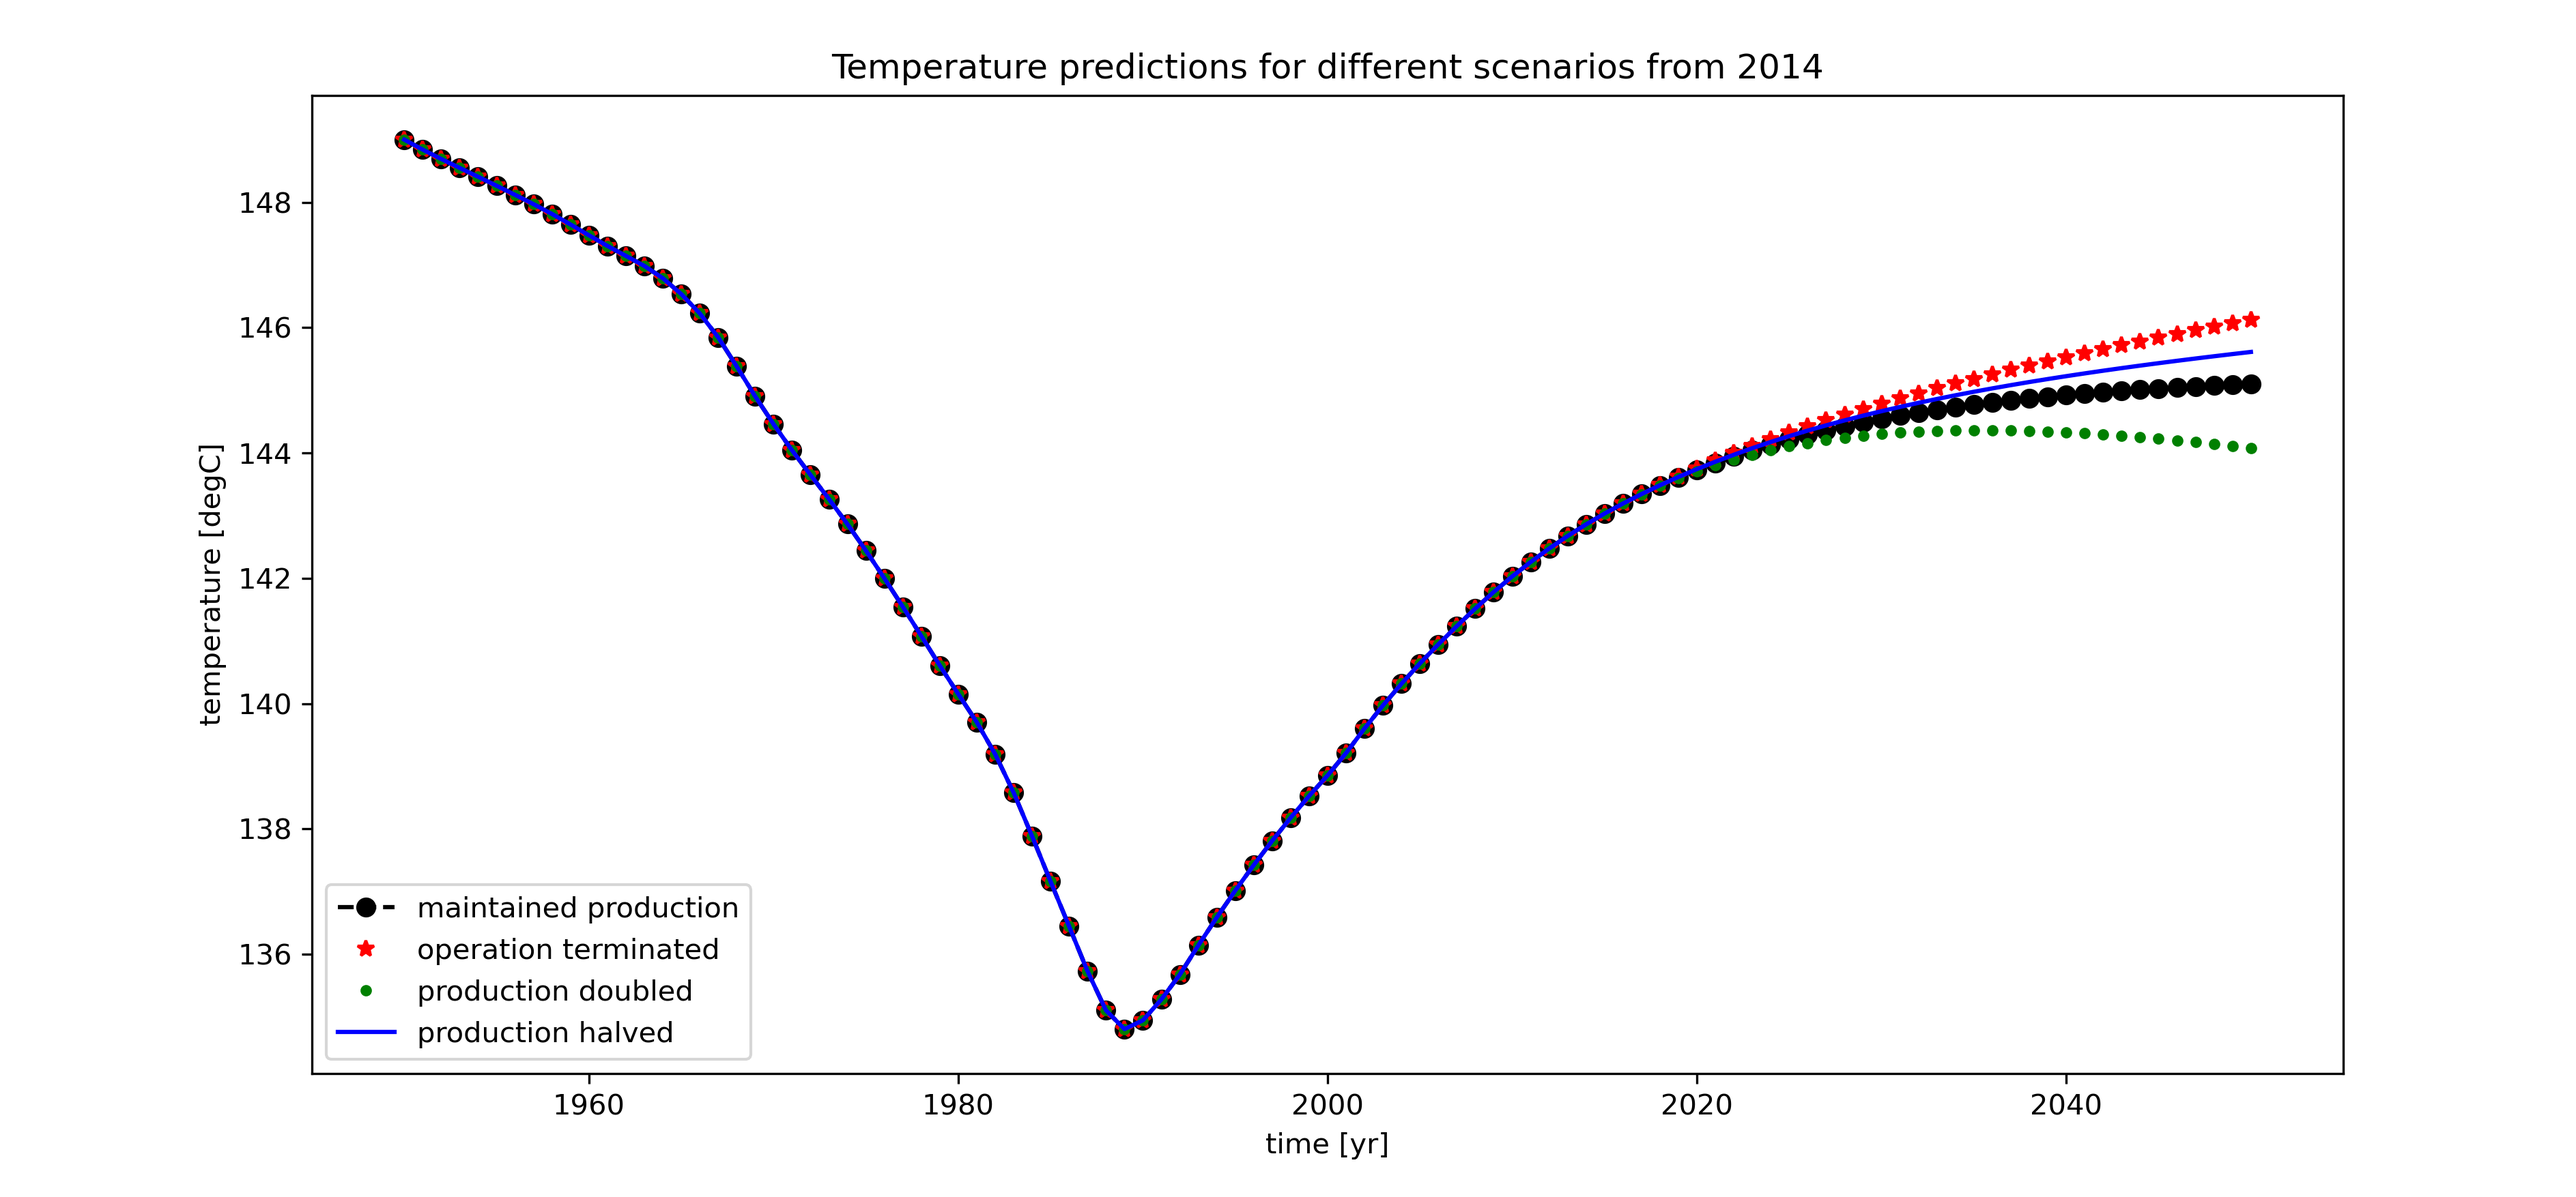
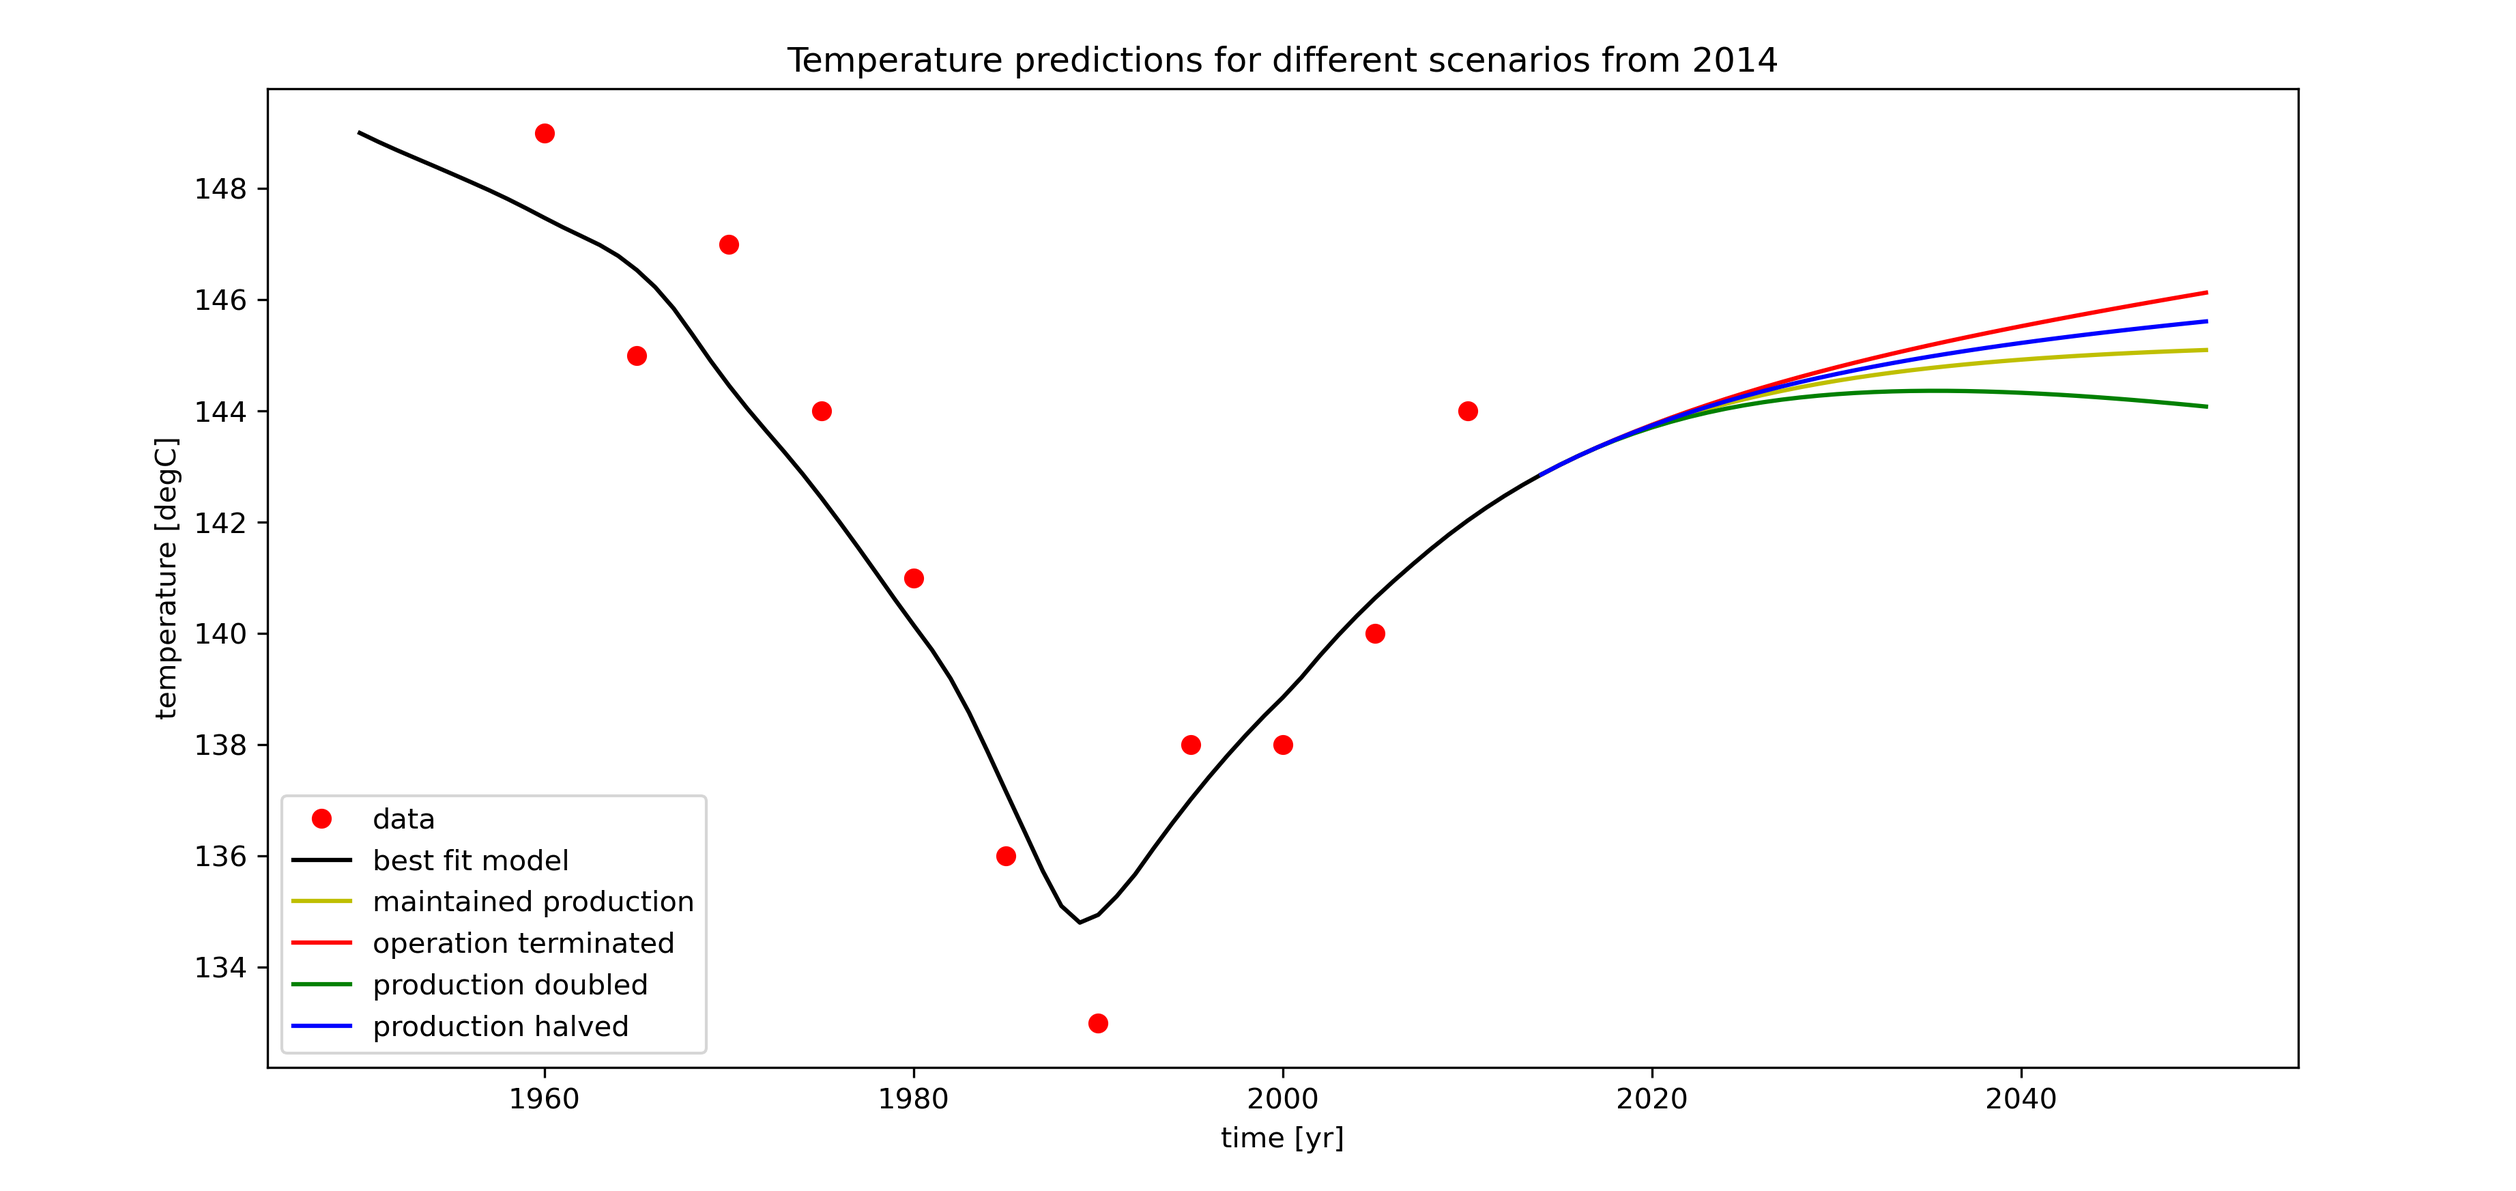
initial model plots and pressure method validation plots added

diff --git a/code/main.py b/code/main.py
@@ -17,10 +17,7 @@ bestfit = True  # plot pressure and temperature bestfit LPM ODE models. MUST REM
 forecast = True
 misfit = True  # plot quantified misfit of the model to data.
 inversion = True
-
-
-
-uncertainty = False  # plot of pressure and temperature forecast uncertainty.
+uncertainty = True  # plot of pressure and temperature forecast uncertainty.
 
 tq1, pr1 = np.genfromtxt('gr_q1.txt', delimiter=',', skip_header=1).T  # production rate 1 (gr_q1 data)
 tq2, pr2 = np.genfromtxt('gr_q2.txt', delimiter=',', skip_header=1).T  # production rate 2 (gr_q2 data)
@@ -195,7 +192,7 @@ if misfit:
     fig, axes = plt.subplots(1, 2)
     ln1 = axes[0].plot(twl, p_plot, 'bo', marker='o', label='data')
     px_plot = np.interp(twl, time_fit, pressure_fit)
-    ln2 = axes[0].plot(twl, px_plot, 'k-', label='ap = 9.110\nbp = 1.116e-1\ncp = 6.571e+1')
+    ln2 = axes[0].plot(twl, px_plot, 'k-', label='ap = 7.751e+1\nbp = 1\ncp = 0')
 
     lns = ln1 + ln2
     labs = [l.get_label() for l in lns]
@@ -227,7 +224,7 @@ if misfit:
 
     ln1 = axes[0].plot(t_given, temp_given, 'bo', marker='o', label='data')
     Tx_plot = np.interp(t_given, timeT_fit, temp_fit)
-    ln2 = axes[0].plot(t_given, Tx_plot, 'k-', label='at = 6.058e-7\nbt = 8.288e-2')
+    ln2 = axes[0].plot(t_given, Tx_plot, 'k-', label='at = 6.366e-7\nbt = 8.527e-2')
 
     lns = ln1 + ln2
     labs = [l.get_label() for l in lns]
@@ -451,15 +448,17 @@ if forecast:
     y_half = p.solve_ode(p.ode_model, time0, time2, dt, x0_p, 'HALF', pars=[para_p[0], para_p[1], para_p[2], p0])[1]
 
     # plotting the different scenarios against each other
-    ln1 = ax1.plot(t_forc, y_same, 'k-', label='maintained production')
-    ln2 = ax1.plot(t_forc, y_stop, 'r-', label='operation terminated')
-    ln3 = ax1.plot(t_forc, y_double, 'g-', label='production doubled')
-    ln4 = ax1.plot(t_forc, y_half, 'b-', label='production halved')
+    ln5 = ax1.plot(twl, p_plot / 100000, 'ro', marker='o', label='data')
+    ln0 = ax1.plot(t_forc[:65], y_same[:65] / 100000, 'k-', label='best fit model')
+    ln1 = ax1.plot(t_forc[64:], y_same[64:] / 100000, 'y-', label='maintained production')
+    ln2 = ax1.plot(t_forc[64:], y_stop[64:] / 100000, 'r-', label='operation terminated')
+    ln3 = ax1.plot(t_forc[64:], y_double[64:] / 100000, 'g-', label='production doubled')
+    ln4 = ax1.plot(t_forc[64:], y_half[64:] / 100000, 'b-', label='production halved')
 
-    lns = ln1 + ln2 + ln3 + ln4
+    lns = ln5 + ln0 + ln1 + ln2 + ln3 + ln4
     labs = [l.get_label() for l in lns]
     ax1.legend(lns, labs, loc=4)
-    ax1.set_ylabel('Pressure [MPa]')
+    ax1.set_ylabel('Pressure [bar]')
     ax1.set_xlabel('time [yr]')
     ax1.set_title('Pressure predictions for different scenarios from 2014')
 
@@ -474,10 +473,10 @@ if forecast:
     # plotting format
     fig, ax2 = plt.subplots(nrows=1, ncols=1)
     t_pred = np.copy(t_forc[64:])
-    dy_no_ch = np.gradient(np.copy(y_same[64:]))
-    dy_st = np.gradient(np.copy(y_stop[64:]))
-    dy_do = np.gradient(np.copy(y_double[64:]))
-    dy_ha = np.gradient(np.copy(y_half[64:]))
+    dy_no_ch = np.gradient(np.copy(y_same[64:]/100000))
+    dy_st = np.gradient(np.copy(y_stop[64:]/100000))
+    dy_do = np.gradient(np.copy(y_double[64:]/100000))
+    dy_ha = np.gradient(np.copy(y_half[64:]/100000))
 
     ln0 = ax2.plot(t_pred, np.zeros(len(t_pred)), 'k--', label='recovery affected')
     ln1 = ax2.plot(t_pred, dy_no_ch, 'k-', label='maintained production')
@@ -510,12 +509,14 @@ if forecast:
     t_half_prod = t.solve_ode(t.ode_model, time0, time2, dt, x0_t, y_half, pars=[para_t[0], para_t[1], p0, t0])[1]
 
     # plotting the different scenarios against each other
-    ln1 = ax1.plot(tx, t_no_change, 'k--o', label='maintained production')
-    ln2 = ax1.plot(tx, t_no_prod, 'r*', label='operation terminated')
-    ln3 = ax1.plot(tx, t_double_prod, 'g.', label='production doubled')
-    ln4 = ax1.plot(tx, t_half_prod, 'b-', label='production halved')
+    ln5 = ax1.plot(t_given, temp_given, 'ro', marker='o', label='data')
+    ln0 = ax1.plot(tx[:65], t_no_change[:65], 'k-', label='best fit model')
+    ln1 = ax1.plot(tx[64:], t_no_change[64:], 'y-', label='maintained production')
+    ln2 = ax1.plot(tx[64:], t_no_prod[64:], 'r-', label='operation terminated')
+    ln3 = ax1.plot(tx[64:], t_double_prod[64:], 'g-', label='production doubled')
+    ln4 = ax1.plot(tx[64:], t_half_prod[64:], 'b-', label='production halved')
 
-    lns = ln1 + ln2 + ln3 + ln4
+    lns = ln5 + ln0 + ln1 + ln2 + ln3 + ln4
     labs = [l.get_label() for l in lns]
     ax1.legend(lns, labs, loc=3)
     ax1.set_ylabel('temperature [degC]')

diff --git a/code/pressure.py b/code/pressure.py
@@ -89,14 +89,16 @@ def interpolate_q_total(t):
     # read extraction rate data
     tq1, pr1 = np.genfromtxt('gr_q1.txt', delimiter=',', skip_header=1).T  # production rate 1 (gr_q1 data)
     tq2, pr2 = np.genfromtxt('gr_q2.txt', delimiter=',', skip_header=1).T  # production rate 2 (gr_q2 data)
-
+    tqr, prr = np.genfromtxt('gr_rainfall.txt', delimiter=',', skip_header=1).T # rainfall data 
+    prr = (prr/365)*0.001*997*0.001 # conversion from mm/yr rainfall to tonnes/day rainfall (mm rainfall indicates mm water for every 1m^2 area, 1 mm is 0.001 m, 1 year = 365 days, density of water is 997kg/m^3, 1 kg is 0.001 tonne)
     # we need to decide how we calculate q and what falls in our zone, I remember something in the first few lectures
     # about this, 2D blocking maybe??
     ex1 = np.interp(t, tq1, pr1)
     ex2 = np.interp(t, tq2, pr2)
+    ex3 = np.interp(t, tqr, prr)
 
-    # calculation of reinjection rate
-    ex_final = ex1
+    # calculation of reinjection rate and rainfall data 
+    ex_final = ex1 -ex3
     ex_final[34:] = ex_final[34:] - 1500  # 1500 1985
     ex_final[41:] = ex_final[41:] - 3800  # 5300 1992
     ex_final[50:] = ex_final[50:] - 2200  # 7500 2001
